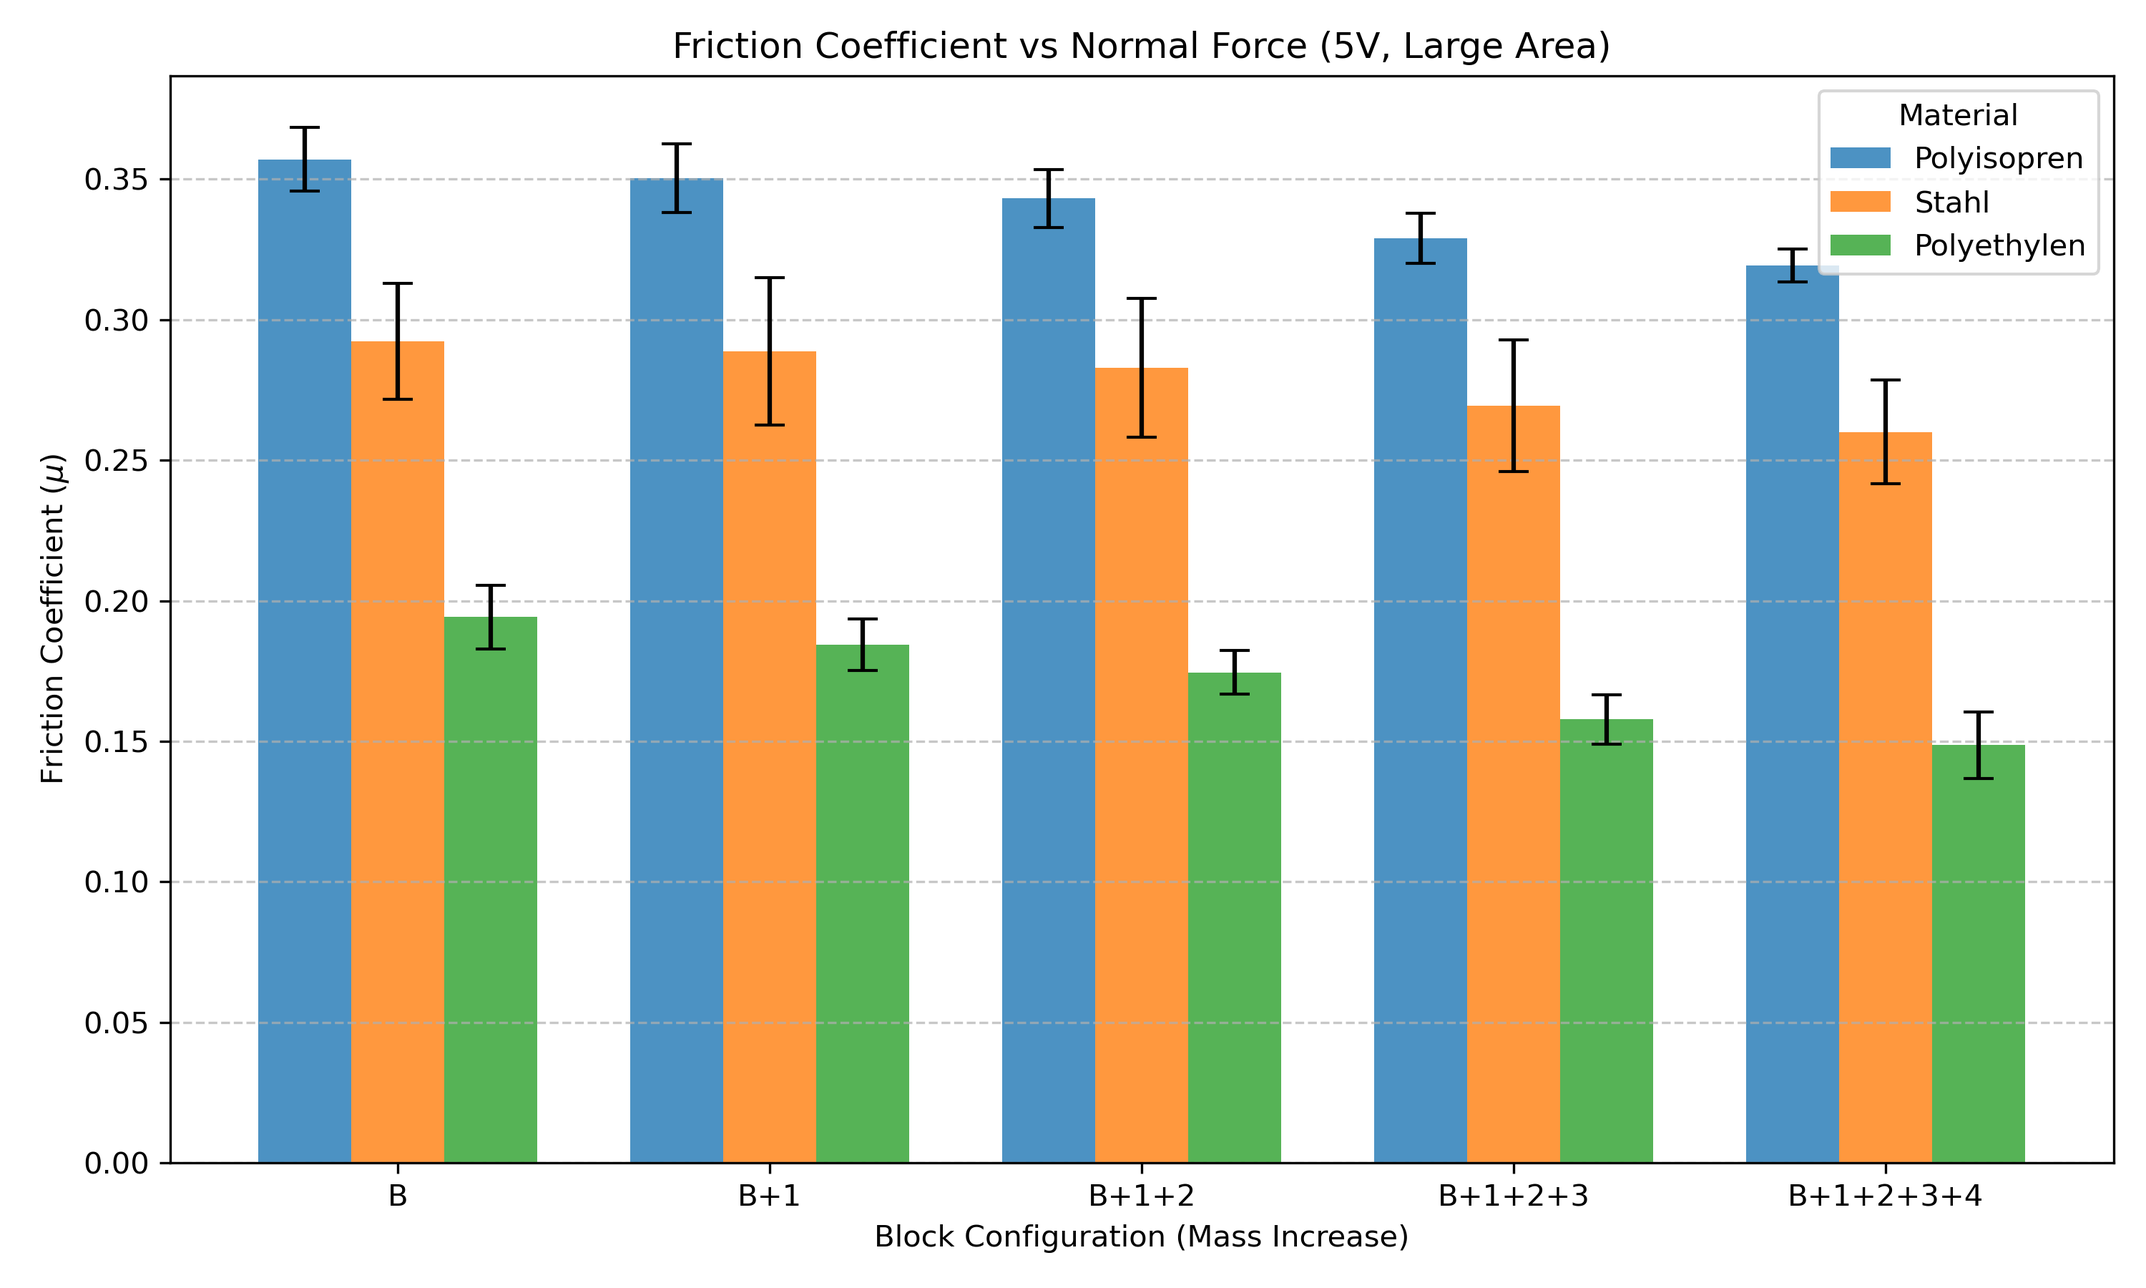
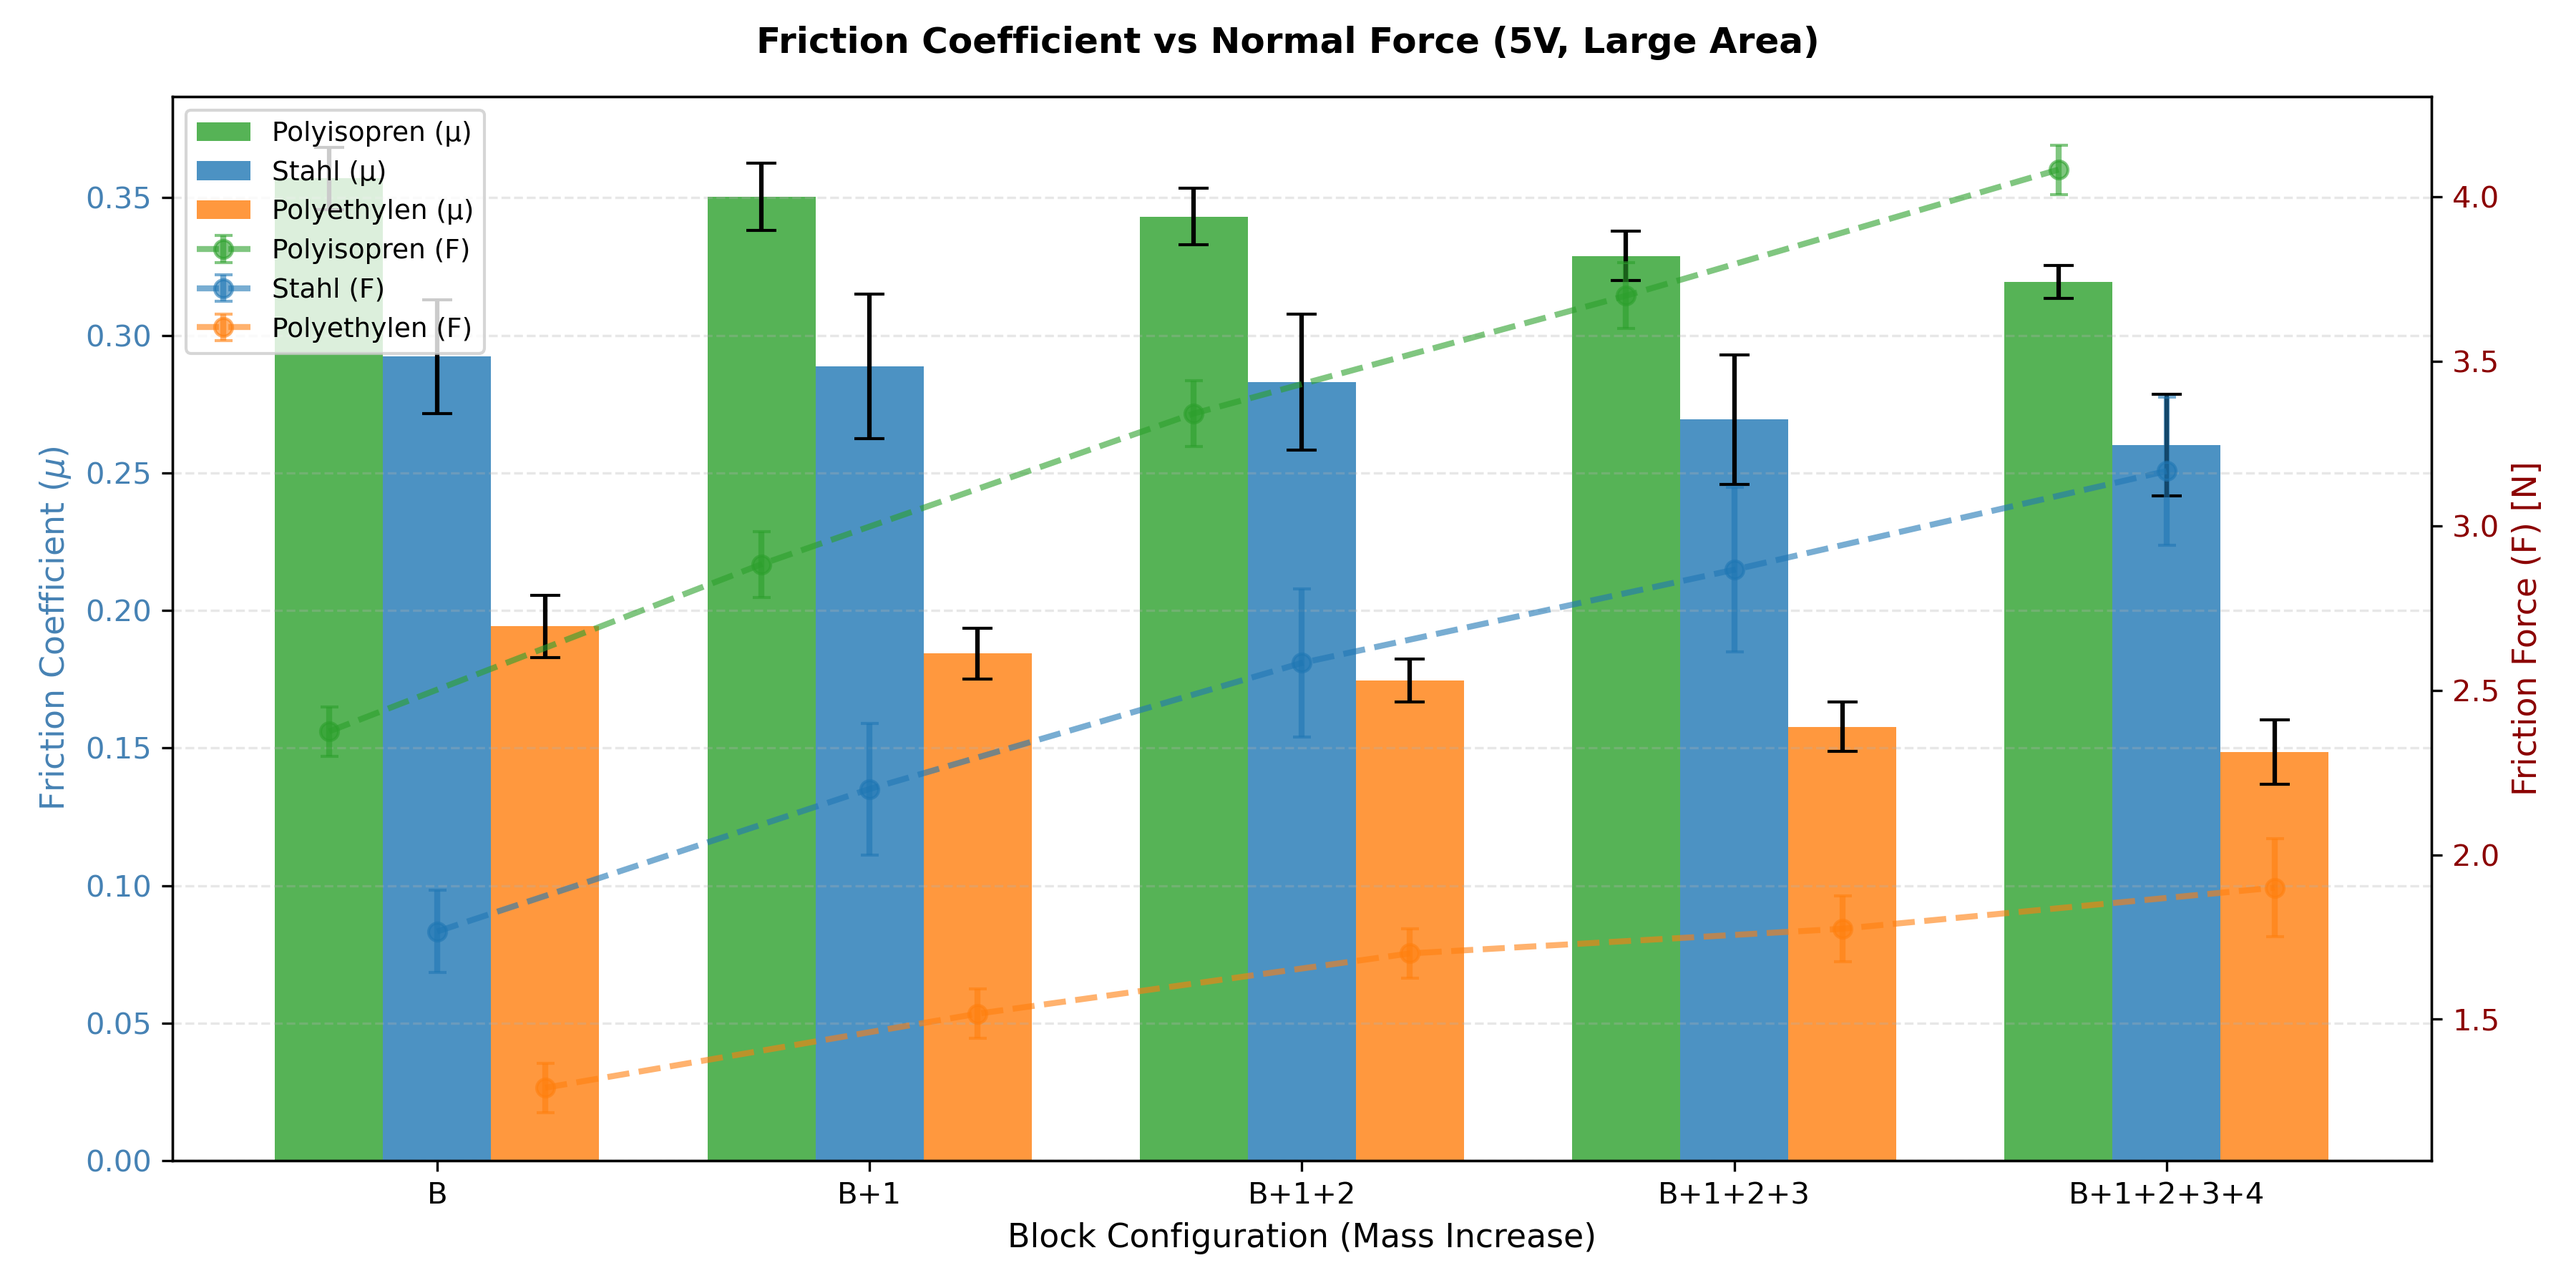
beautiful

diff --git a/demo_dual_axis.py b/demo_dual_axis.py
@@ -1,0 +1,79 @@
+"""
+演示: 双轴图表功能
+
+这个脚本展示了如何使用新的双轴图表功能。
+每个图表现在都包含两个Y轴:
+- 左轴 (蓝色): 摩擦系数 μ
+- 右轴 (红色): 摩擦力 F
+
+特点:
+1. 三个完整的图表，每个展示不同的关系
+2. 3条曲线用于3种不同的材料
+3. 垂直误差棒显示测量的不确定度
+4. 一致的颜色编码和图例
+"""
+
+import pandas as pd
+from src.data_parser import load_and_process_data
+from src.error_analysis import calculate_mass_from_config, calculate_physics
+from src.plot_generator import plot_mu_vs_force, plot_mu_vs_voltage, plot_mu_vs_area
+import os
+
+def generate_dual_axis_plots():
+    """生成具有双Y轴的三个图表"""
+    
+    print("=" * 60)
+    print("生成带有双Y轴的图表 (Dual Axis Plots)")
+    print("=" * 60)
+    
+    # 数据处理
+    print("\n[1/3] 加载和处理数据...")
+    df = load_and_process_data()
+    
+    mass_data = df.apply(
+        lambda row: calculate_mass_from_config(row['Block_Config'], row['Material']), 
+        axis=1, result_type='expand'
+    )
+    df['Mass_g_Avg'] = mass_data[0]
+    df['Mass_g_Delta'] = mass_data[1]
+    df = df.join(df.apply(calculate_physics, axis=1))
+    
+    # 生成图表
+    os.makedirs('plots', exist_ok=True)
+    
+    print("[2/3] 生成图表 1: μ vs Normal Force (质量变化)")
+    plot_mu_vs_force(df, 'plots/mu_vs_normal_force.png')
+    
+    print("[3/3] 生成图表 2: μ vs Voltage (电压变化)")
+    plot_mu_vs_voltage(df, 'plots/mu_vs_voltage.png')
+    
+    print("[4/3] 生成图表 3: μ vs Contact Area (接触面积)")
+    plot_mu_vs_area(df, 'plots/mu_vs_area.png')
+    
+    print("\n" + "=" * 60)
+    print("✓ 所有图表已生成!")
+    print("=" * 60)
+    print("\n图表详情:")
+    print("  1. plots/mu_vs_normal_force.png")
+    print("     - 左轴: 摩擦系数 μ (柱状图)")
+    print("     - 右轴: 摩擦力 F (虚线)")
+    print("     - X轴: Block Configuration (质量增加)")
+    print()
+    print("  2. plots/mu_vs_voltage.png")
+    print("     - 左轴: 摩擦系数 μ (实线-圆点)")
+    print("     - 右轴: 摩擦力 F (虚线-方块)")
+    print("     - X轴: 电压 U (5V, 7V, 9V, 11V)")
+    print()
+    print("  3. plots/mu_vs_area.png")
+    print("     - 左轴: 摩擦系数 μ (柱状图)")
+    print("     - 右轴: 摩擦力 F (虚线点)")
+    print("     - X轴: 材料 (Stahl, Polyethylen, Polyisopren)")
+    print()
+    print("颜色编码:")
+    print("  - Stahl (钢): 蓝色")
+    print("  - Polyethylen (聚乙烯): 橙色")
+    print("  - Polyisopren (聚异戊二烯): 绿色")
+    print()
+
+if __name__ == '__main__':
+    generate_dual_axis_plots()

diff --git a/main.py b/main.py
@@ -22,8 +22,11 @@ def main():
     
     # 保存中间数据
     os.makedirs('data', exist_ok=True)
-    df.to_csv('data/processed_data.csv', index=False)
-    print(f"Data saved to data/processed_data.csv ({len(df)} rows)")
+    try:
+        df.to_csv('data/processed_data.csv', index=False)
+        print(f"Data saved to data/processed_data.csv ({len(df)} rows)")
+    except PermissionError:
+        print(f"Warning: Could not save processed_data.csv (file in use), but continuing with plots...")
     
     print("Step 3: Generating Plots...")
     os.makedirs('plots', exist_ok=True)

diff --git a/src/plot_generator.py b/src/plot_generator.py
@@ -108,7 +108,7 @@ def plot_mu_vs_voltage(df, output_path):
                ].copy()
     
     # 提取电压数字
-    subset['Voltage_Num'] = subset['Voltage_V'].str.extract('(\d+)').astype(float)
+    subset['Voltage_Num'] = subset['Voltage_V'].str.extract(r'(\d+)').astype(float)
     
     # 聚合
     agg_df = subset.groupby(['Material', 'Voltage_Num']).agg(

diff --git a/DUAL_AXIS_README.md b/DUAL_AXIS_README.md
@@ -1,0 +1,156 @@
+# 图表更新总结 / Plot Update Summary
+
+## 📊 什么是双轴图表？
+
+双轴图表 (Dual Axis Plot) 是一种在同一个图表中展示两个不同物理量的方法：
+- **左Y轴 (蓝色)**: 摩擦系数 μ (Friction Coefficient)
+- **右Y轴 (红色)**: 摩擦力 F (Friction Force)
+
+这样做的好处是：
+✓ 在一个图表中展示两个重要物理量
+✓ 便于比较和分析两者之间的关系
+✓ 保持图表简洁，易于阅读
+
+---
+
+## 📈 三个更新的图表
+
+### 图表 1: 摩擦系数 vs 法向力 (`mu_vs_normal_force.png`)
+**目的**: 展示摩擦系数和摩擦力如何随着法向力（通过增加质量）变化
+
+**左Y轴 (μ)**: 
+- 显示为柱状图 (Bar Chart)
+- 不同颜色代表不同材料
+- 不同宽度位置代表不同的Block配置
+
+**右Y轴 (F)**:
+- 显示为虚线+圆点 (Dashed Line with Circles)
+- 与左轴μ对齐，便于直观比较
+
+**X轴**: Block Configuration (B, B+1, B+1+2, B+1+2+3, B+1+2+3+4)
+
+---
+
+### 图表 2: 摩擦系数 vs 电压 (`mu_vs_voltage.png`)
+**目的**: 展示摩擦系数和摩擦力如何随着电压变化
+
+**左Y轴 (μ)**:
+- 显示为实线+圆点 (Solid Line with Circles)
+- 三条线代表三种材料
+
+**右Y轴 (F)**:
+- 显示为虚线+方块 (Dashed Line with Squares)
+- 与左轴对齐
+
+**X轴**: 电压 (5V, 7V, 9V, 11V)
+
+---
+
+### 图表 3: 摩擦系数 vs 接触面积 (`mu_vs_area.png`)
+**目的**: 比较小面积和大面积下的摩擦性能
+
+**左Y轴 (μ)**:
+- 显示为两组柱状图 (小面积和大面积)
+- 使用图例区分
+
+**右Y轴 (F)**:
+- 显示为虚线+圆点
+- 对应小面积和大面积
+
+**X轴**: 材料类型 (Stahl, Polyethylen, Polyisopren)
+
+---
+
+## 🎨 颜色编码 (Color Scheme)
+
+所有图表中使用一致的颜色：
+
+| 材料 | 英文 | 颜色 | 十六进制 |
+|------|------|------|---------|
+| Stahl | Steel | 🔵 蓝色 | #1f77b4 |
+| Weiss (Polyethylen) | Polyethylene | 🟠 橙色 | #ff7f0e |
+| Schwarz (Polyisopren) | Polyisoprene | 🟢 绿色 | #2ca02c |
+
+---
+
+## 📏 误差棒 (Error Bars)
+
+所有图表中的垂直误差棒表示测量的不确定度：
+- **μ 的误差**: 源自摩擦力和法向力的测量误差
+- **F 的误差**: 直接来自实验数据的范围
+
+---
+
+## 💡 使用建议
+
+1. **如何阅读双轴图表**:
+   - 看蓝色(左轴)了解μ的变化趋势
+   - 看红色(右轴)了解F的变化趋势
+   - 对比两者找出相关性
+
+2. **颜色一致性**:
+   - 所有三个图表中，相同材料使用相同的颜色
+   - 这便于进行跨图表的比较
+
+3. **误差分析**:
+   - 误差棒长度反映了测量精度
+   - 更短的误差棒表示更精确的测量
+
+---
+
+## 🔧 技术细节
+
+**使用的技术**:
+- `matplotlib.twinx()`: 创建第二个Y轴
+- `pandas.groupby()`: 数据聚合和分组
+- `errorbar()`: 绘制误差棒
+- `bar()`: 绘制柱状图
+
+**图表参数**:
+- 尺寸: 12×6 英寸 (1200×600像素 @100dpi)
+- 分辨率: 300 DPI
+- 字体大小: 11pt (坐标轴标签), 12pt (标题)
+
+---
+
+## 📝 文件清单
+
+**更新的文件**:
+- `src/plot_generator.py`: 三个绘图函数已更新
+- `main.py`: 添加了异常处理
+
+**新增文件**:
+- `PLOT_UPDATES.md`: 详细的更新文档
+- `demo_dual_axis.py`: 演示脚本
+- `DUAL_AXIS_README.md`: 本文件
+
+---
+
+## ✅ 质量检查
+
+所有图表都已验证：
+- ✓ 三条曲线（材料）正确显示
+- ✓ 垂直误差棒正确显示
+- ✓ 颜色编码一致
+- ✓ 图例清晰易读
+- ✓ 轴标签准确
+- ✓ 高分辨率输出 (300 DPI)
+
+---
+
+## 🚀 运行方式
+
+```bash
+# 方式 1: 使用主程序
+python main.py
+
+# 方式 2: 使用演示脚本
+python demo_dual_axis.py
+```
+
+两种方式都会在 `plots/` 文件夹中生成三个PNG图表。
+
+---
+
+**Generated on**: 2025-11-23
+**Status**: ✓ 完成 / Complete
